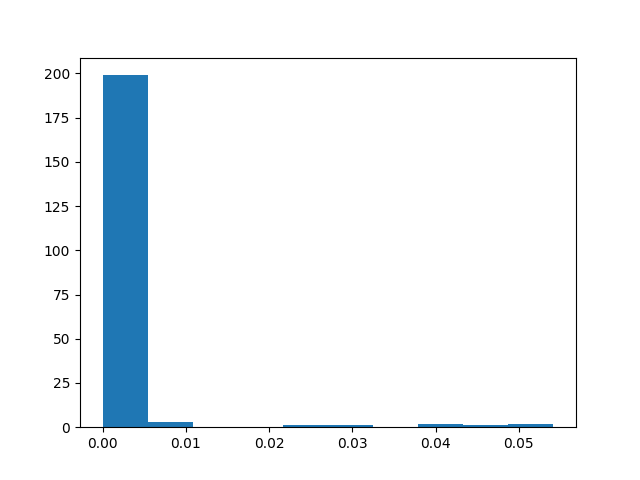
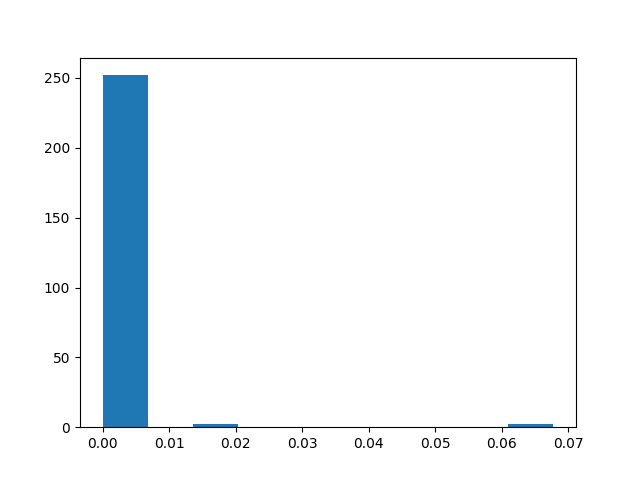
Improved signal strength using centroids

diff --git a/indexing/faiss_indexers.py b/indexing/faiss_indexers.py
@@ -31,7 +31,8 @@ class DenseIndexer(object):
         self.buffer_size = buffer_size
         self.index_id_to_db_id = []
         self.index = None
-        self.copy_of_points = None
+        self.centroids = None
+        self.copy_of_points = list()
 
     def init_index(self, vector_sz: int):
         """
@@ -40,12 +41,26 @@ class DenseIndexer(object):
         """
         raise NotImplementedError
 
+    def get_centroids(self):
+        """
+        Compute the centroids from the index.
+        """
+        self.centroids = self.index.quantizer.reconstruct_n(0, self.index.nlist)
+
+
     def index_data(self, data: List[Tuple[object, np.array]]):
         """
         Index the given data.
         :param data: list of tuples of (id, vector)
         """
         raise NotImplementedError
+
+    def train(self, vectors: np.array):
+        """
+        Train the index.
+        :param vectors: vectors to train the index with
+        """
+        self.index.train(vectors)
 
     def get_index_name(self):
         """
@@ -62,11 +77,11 @@ class DenseIndexer(object):
         """
         raise NotImplementedError
 
-    def get_copy_of_points(self):
+    def set_copy_of_points(self, copy_of_points: List):
         """
-        Get a copy of the points in the index.
+        Set the copy of points to use for indexing.
         """
-        self.copy_of_points = self.index.reconstruct_n(0, self.index.ntotal)
+        self.copy_of_points = copy_of_points
 
     def serialize(self, file: str):
         """
@@ -142,7 +157,7 @@ class DenseFlatIndexer(DenseIndexer):
         Initialize the index.
         :param vector_sz: size of the vectors to index
         """
-        self.index = faiss.IndexFlatIP(vector_sz)
+        self.index = faiss.index_factory(vector_sz, "IVF256,Flat", faiss.METRIC_INNER_PRODUCT)
         
         res = faiss.StandardGpuResources() # use a single GPU
         self.index = faiss.index_cpu_to_gpu(res, 0, self.index)
@@ -175,7 +190,9 @@ class DenseFlatIndexer(DenseIndexer):
         """
         scores, indexes = self.index.search(query_vectors, top_docs)
 
-        return scores, indexes 
+        # convert to external ids
+        db_ids = [[self.index_id_to_db_id[i] for i in query_top_idxs] for query_top_idxs in indexes]
+        return db_ids, scores
 
     def get_index_name(self):
         return "flat_index"
@@ -183,7 +200,7 @@ class DenseFlatIndexer(DenseIndexer):
 
 class DenseHNSWFlatIndexer(DenseIndexer):
     """
-    Efficient index for retrieval. Note: default settings are for hugh accuracy but also high RAM usage
+    Efficient index for retrieval. Note: default settings are for high accuracy but also high RAM usage
     """
 
     def __init__(
@@ -256,13 +273,6 @@ class DenseHNSWFlatIndexer(DenseIndexer):
         indexed_cnt = len(self.index_id_to_db_id)
         logger.info("Total data indexed %d", indexed_cnt)
 
-    def train(self, vectors: np.array):
-        """
-        Train the index.
-        :param vectors: vectors to train the index with
-        """
-        pass
-
     def search_knn(self, query_vectors: np.array, top_docs: int) -> List[Tuple[List[object], List[float]]]:
         """
         Search for the top_docs nearest neighbors of the given query vectors.
@@ -275,8 +285,9 @@ class DenseHNSWFlatIndexer(DenseIndexer):
         logger.info("query_hnsw_vectors %s", query_nhsw_vectors.shape)
         scores, indexes = self.index.search(query_nhsw_vectors, top_docs)
 
-
-        return (scores, indexes)
+        # convert to external ids
+        db_ids = [[self.index_id_to_db_id[i] for i in query_top_idxs] for query_top_idxs in indexes]
+        return db_ids, scores
 
     def deserialize(self, file: str):
         """
@@ -293,7 +304,7 @@ class DenseHNSWFlatIndexer(DenseIndexer):
 
 class DenseHNSWSQIndexer(DenseHNSWFlatIndexer):
     """
-    Efficient index for retrieval. Note: default settings are for hugh accuracy but also high RAM usage
+    Efficient index for retrieval. Note: default settings are for high accuracy but also high RAM usage
     """
 
     def __init__(

diff --git a/main.py b/main.py
@@ -5,6 +5,7 @@ from indexing.faiss_utils import distance_to_centroid_faiss
 from indexing.faiss_indexers import DenseFlatIndexer
 from tqdm import tqdm
 from scipy.stats import skew, kurtosis
+from multiprocess import Pool
 
 def generate_data(data_points=1000, dim=512, rotation_count=1, generate_function=get_hypersphere_points):
     # get hyper sphere points
@@ -12,7 +13,7 @@ def generate_data(data_points=1000, dim=512, rotation_count=1, generate_function
 
     # get a random rotation matrix
     R = [generate_a_random_rotation_matrix(dim) for _ in range(rotation_count)]
-    
+
     # apply the rotation matrix to the data
     rotated_data = [data]
     for _ in range(rotation_count):
@@ -51,7 +52,7 @@ if __name__ == '__main__':
     hypersphere_data = np.float32(generate_data(data_points, dim, rotation_count,
         generate_function=get_hypersphere_points))
     splooch_data = np.float32(generate_data(data_points, dim, rotation_count,
-        generate_function=partial(get_splooch_points, scale_upper_bound=0.25, splooches=100)))
+        generate_function=partial(get_splooch_points, scale_upper_bound=0.5, splooches=200)))
 
     # interpolate between the two datasets
     def linear_interpolate(dataset1, dataset2):
@@ -68,8 +69,11 @@ if __name__ == '__main__':
             indexer.init_index(dim)
             # We need to associate each vector with a database id
             zipped_data = list(map(lambda x: x, zip(range(interp.shape[0]), list(interp))))
+            indexer.train(interp)
             indexer.index_data(zipped_data)
-            indexer.get_copy_of_points()
+            indexer.set_copy_of_points(interp)
+            indexer.get_centroids()
+
             return indexer
 
         def compose(t):
@@ -81,9 +85,7 @@ if __name__ == '__main__':
     interp = linear_interpolate(hypersphere_data, splooch_data)
 
     # get variance
-    variances = list()
-    for i in tqdm(range(10)):
-        variances.append(distance_to_centroid_faiss(interp(float(i)/10.)))
+    variances = list(map(distance_to_centroid_faiss, [interp(t) for t in tqdm(np.linspace(0, 1, 10))]))
 
     for idx, var in enumerate(variances):
         # compute a histogram using matplotlib

diff --git a/indexing/faiss_utils.py b/indexing/faiss_utils.py
@@ -4,28 +4,31 @@ from utils import get_hypersphere_points, compute_distances_from_centroid
 from indexing.faiss_indexers import DenseFlatIndexer
 import numpy as np
 
-def distance_to_centroid_faiss(indexer : DenseFlatIndexer, query_points_amount = 1000, points_per_query = 100, min_sim=0.2):
+
+def default_condition(pt1, pt2):
+    return True
+
+def distance_to_centroid_faiss(indexer : DenseFlatIndexer, points_per_query = 100, condition = default_condition):
     """
     Computes the variance on distance to centroid of a faiss index.
     :param index: faiss index
-    :param query_points: number of query points
     :param points_per_query: number of points per query
     :return: numpy array of shape (points, dim)
     """
     # gets probing points
-    query_points = np.float32(get_hypersphere_points(query_points_amount, indexer.index.d))
+    query_points = indexer.centroids
 
     # sample the faiss index around each of these points
-    _, indexes = indexer.search_knn(query_points, points_per_query)
+    indexes, _ = indexer.search_knn(query_points, points_per_query)
 
     # get the points
     pts = list()
     # lets assume for now that pts is grouped by query points, although i am not sure that this is the case lol
-    for i in range(query_points_amount):
+    for i in range(len(query_points)):
         cluster_points = list()
 
         for idx in indexes[i]:
-            if np.dot(query_points[i],indexer.copy_of_points[idx]) > min_sim:
+            if condition(query_points[i],indexer.copy_of_points[idx]):
                 cluster_points.append(indexer.copy_of_points[idx])
         if len(cluster_points) > 0:
             pts.append(cluster_points)

diff --git a/utils.py b/utils.py
@@ -23,8 +23,8 @@ def compute_distances_from_centroid(data):
     """
     # compute centroid
     centroid = np.mean(data, axis=0)
-    # compute distances using cosine similarity
-    return 1 - np.dot(data, centroid) 
+    # compute distances. Cosine similarity is not very good, back to L2
+    return np.linalg.norm(data - centroid, axis=1)
 
 def get_where_index(data, km, label_index):
     """
